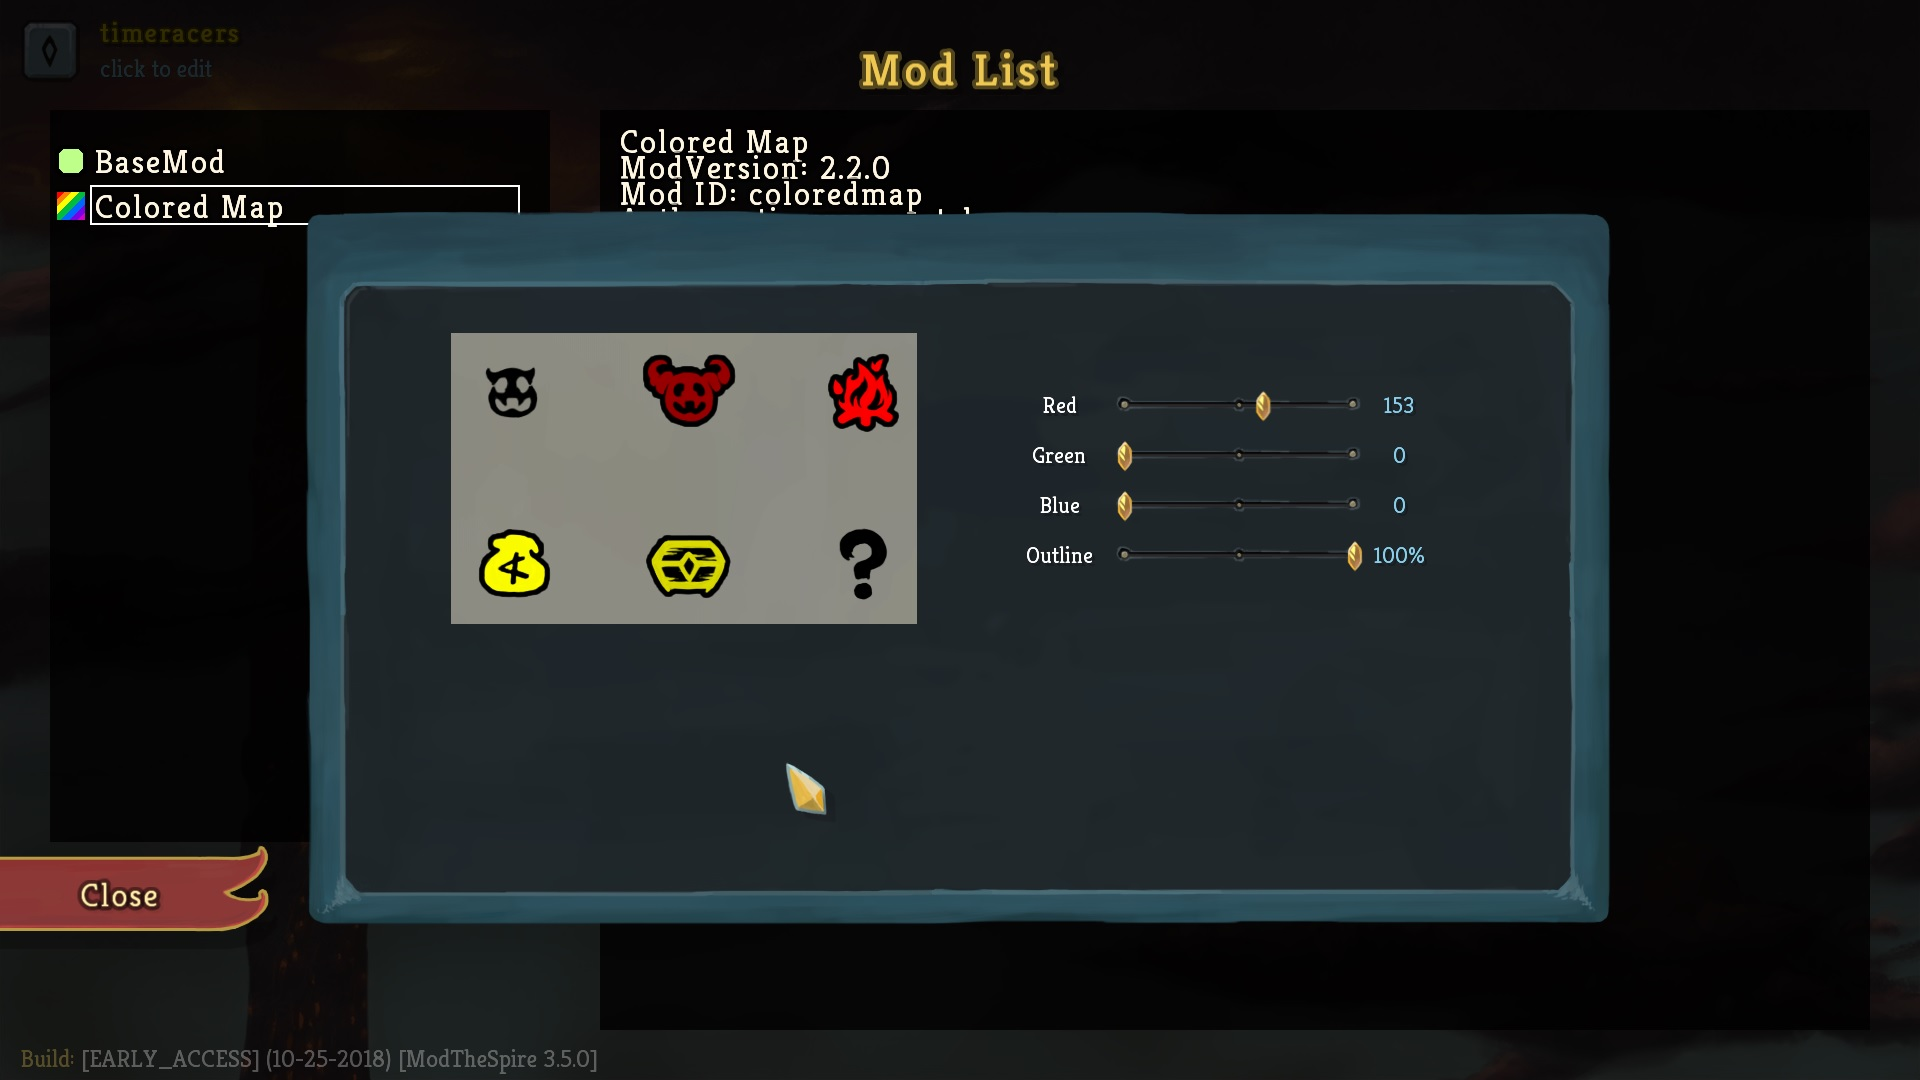
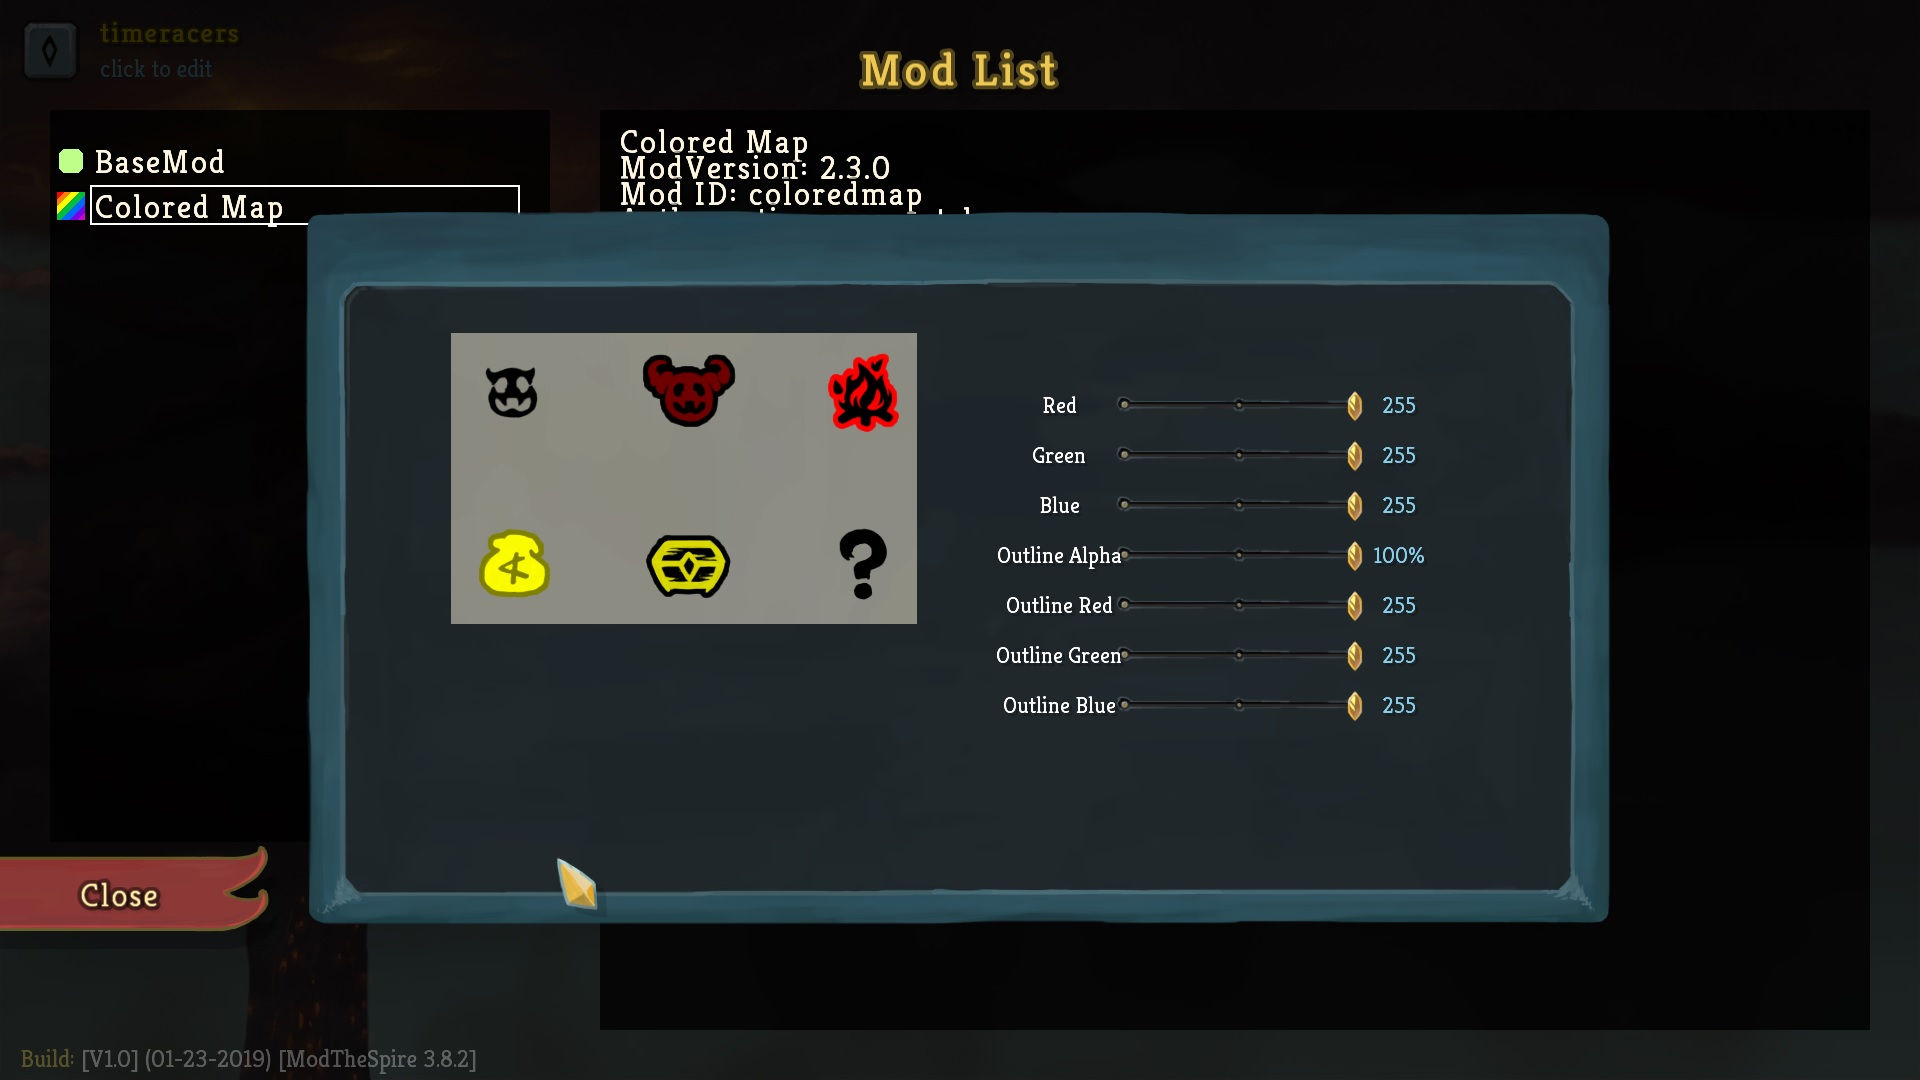
Fixed pagination not recreating the ModColorDisplays correctly.

diff --git a/src/main/java/coloredmap/Pagination.java b/src/main/java/coloredmap/Pagination.java
@@ -35,6 +35,9 @@ class Pagination implements IUIElement
             newElement.b = element.b;
             newElement.a = element.a;
             newElement.aOutline = element.aOutline;
+            newElement.rOutline = element.rOutline;
+            newElement.gOutline = element.gOutline;
+            newElement.bOutline = element.bOutline;
             this.elements.add(newElement);
         }
     }
